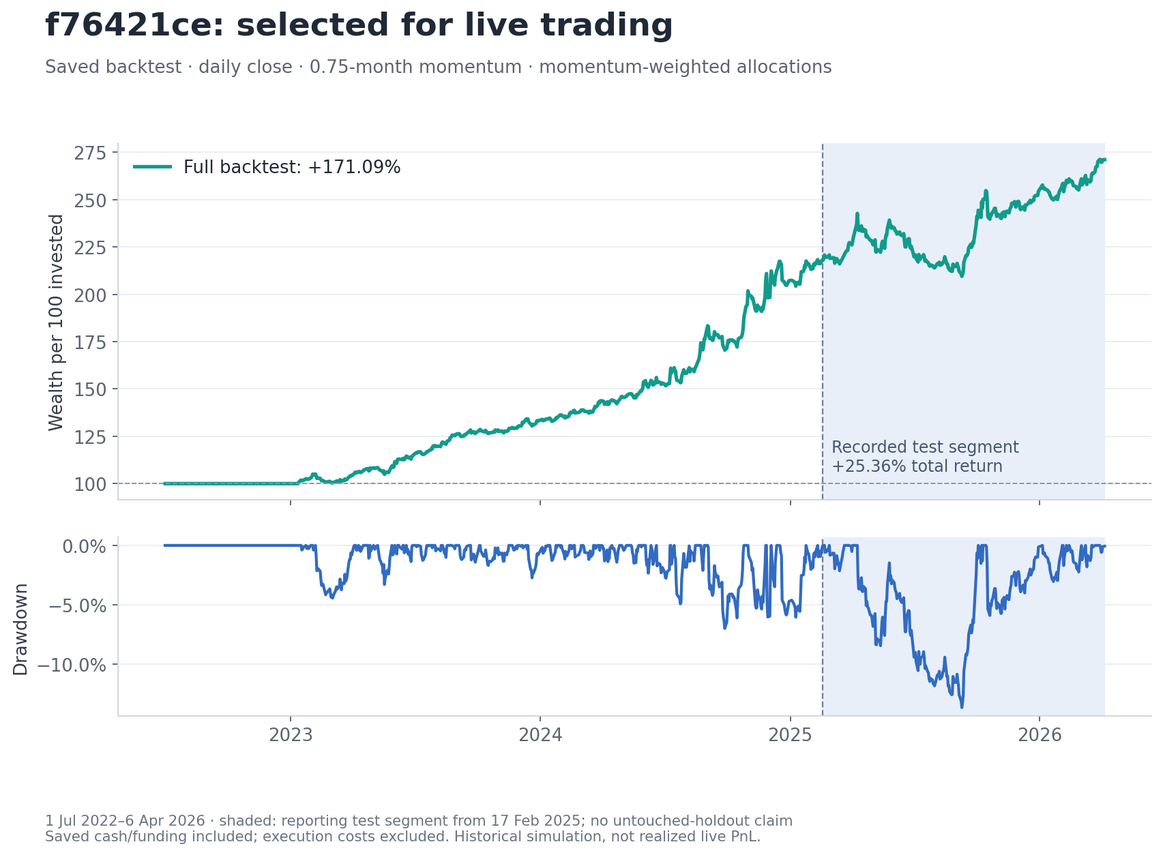
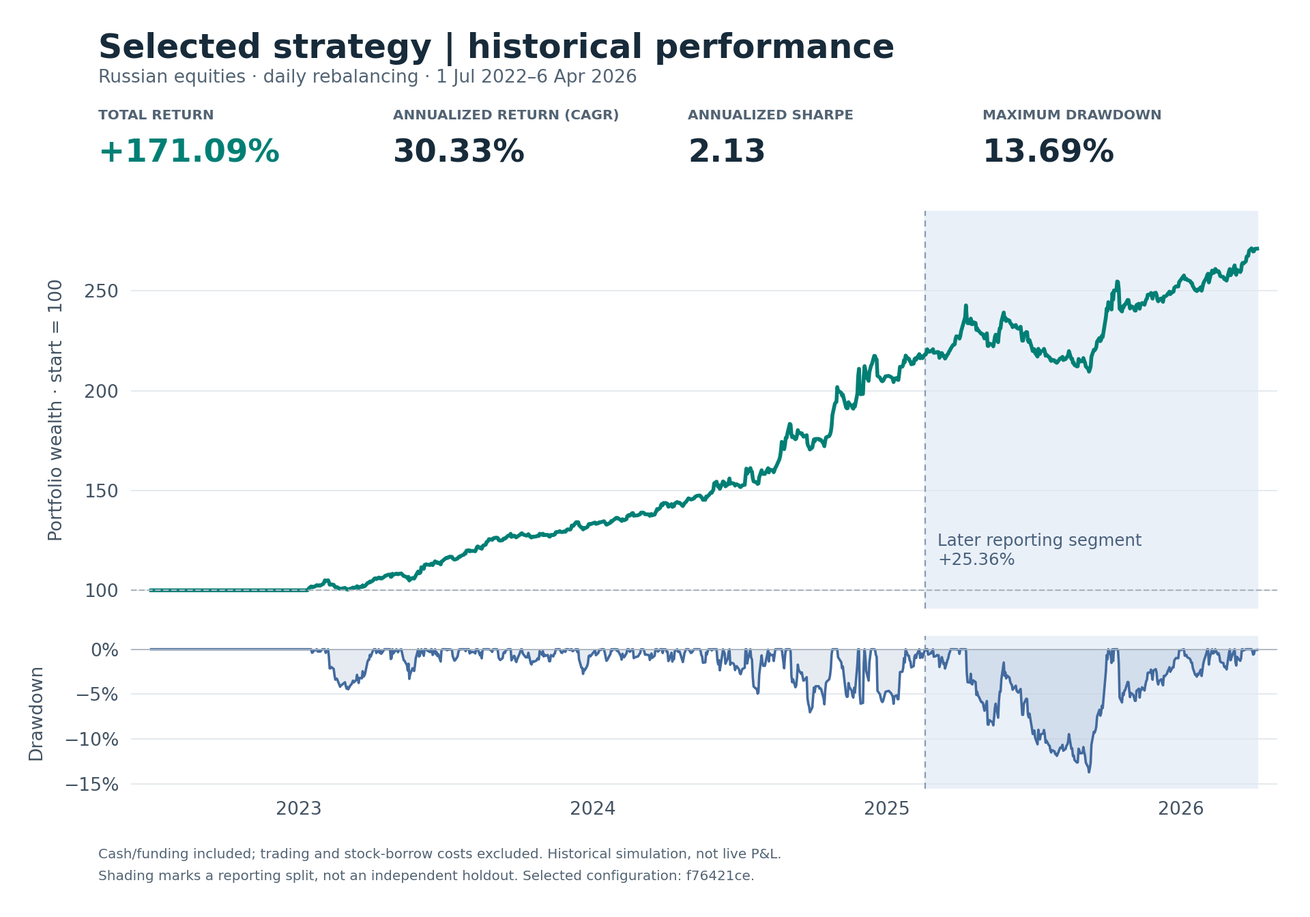
Clarify strategy research, selected results and execution scope

diff --git a/docs/research.md b/docs/research.md
@@ -1,58 +1,60 @@
 # Research process
 
-[Overview](../README.md) · [Strategy](strategy.md) · [Results](results.md)
+[Overview](../README.md) · [Strategy](strategy.md) · [Selected results](results.md)
 
-## Research question
+I built the pipeline from data ingestion and factor construction through portfolio simulation, parameter searches and evaluation. The research question is whether recent factor-portfolio performance can help allocate capital across stock-selection styles.
 
-The project studies whether the recent performance of factor portfolios can guide a changing allocation across them. Stock-level factors define candidate portfolios; momentum of those portfolios determines which candidates receive capital. This separates the signal used to select securities from the signal used to allocate among investment styles.
+## Data engineering and provenance
 
-My work covered data preparation, factor construction, portfolio simulation, parameter optimization and evaluation. I ultimately selected `f76421ce` for live use on the strength of its promising historical results. Its published performance remains backtested performance, distinct from live account returns.
+The private companion project contains collectors for MOEX ISS and optional AlgoPack market data, MOEX dividend/split feeds, CBonds dividends and financial reports, and CBR RUONIA rates. Incremental date-based updates and SQLite upserts support repeatable refreshes. Parquet snapshots provide reusable inputs for research; a review interface exposes signals, allocations and saved runs.
 
-## Data preparation
+Processing includes instrument metadata, split-adjustment bookkeeping, financial-statement currency/unit normalization and trailing-earnings calculations. These implemented connectors clarify the collection pipeline. They do not, on their own, reconstruct the exact historical input snapshot or corporate-action conventions behind every saved experiment.
 
-The research combines closing prices, dividend events, financial ratios, a market benchmark and RUONIA rates. A fixed universe of 45 identifiers is used in the research version; 41 have quotes in its local price snapshot. This is a static research universe, without reconstructed historical index membership or a liquidity screen.
+The earlier research version has a fixed universe of 45 identifiers, with quotes available for 41 in its local snapshot. There is no historical index-membership reconstruction or original volume-based eligibility filter.
 
-| Input | Coverage in the research snapshot | Treatment and limitations |
+| Input | Earlier research snapshot | Processing and open questions |
 | --- | --- | --- |
-| Closing prices | Jan 2015–Jan 2026; 86 tickers before universe filtering | Used for returns and factor calculations; this table has no intraday volume or spread data. |
-| Dividends | Jan 2015–Jan 2026; 744 events | Added to returns on the next observed trading date. Original event-date and tax conventions remain unspecified. |
-| Financial ratios | Mar 2020–Sep 2025; 648 observations | P/E and P/B are matched backward after an assumed 30-day availability lag. Actual publication timestamps are unavailable. |
-| Market benchmark | Jan 2015–Nov 2025 | Stored as MCFTR despite an IMOEXF input label; coverage ends before several strategy evaluations. |
-| RUONIA | Jan 2022–Jan 2026; 991 observations | Converted to annual decimal rates and used in the model's funding convention. |
+| Closing prices | Jan 2015–Jan 2026; 86 tickers before universe filtering | Align by security and date; the research table has no intraday volume or spread data. |
+| Dividends | Jan 2015–Jan 2026; 744 events | Add amounts to returns on the next observed trading date; original event-date and tax conventions remain unresolved. |
+| Financial ratios | Mar 2020–Sep 2025; 648 observations | Backward matching with an assumed 30-day availability lag in research; original publication timestamps are unavailable. |
+| Market benchmark | Jan 2015–Nov 2025 | Snapshot contains MCFTR despite an IMOEXF input label; it ends before several evaluation periods. |
+| RUONIA | Jan 2022–Jan 2026; 991 observations | Normalize to annual decimal rates and apply the model's funding convention. |
 
-These dates describe the research snapshot. The selected configuration used a later SQL-derived dataset through April 2026. The original collectors and exact historical input snapshot are not included here; provider attribution and corporate-action adjustments cannot be fully reconstructed from the available records.
+The selected strategy uses a later SQL-derived input snapshot through April 2026. Different snapshots must not be treated as interchangeable. The main simulator fills missing security returns with zero, while some factor calculations omit missing observations; this affects comparability and the treatment of stale prices.
 
-Observations are aligned by security and trading date. The main simulation substitutes zero for missing security returns, while some factor-return calculations omit missing observations. This difference can affect exposure and comparability. An assumed reporting lag also does not guarantee that every financial observation was available at the simulated decision time.
+## Search design
 
-## Parameter optimization
+The search has two levels. The **inner search** chooses a portfolio specification for each enabled factor category: its signal, observation window and long/short direction. The **outer search** varies how those portfolios are selected and combined.
 
-The inner search chooses one portfolio specification per enabled factor category. Each specification sets the factor, its observation window and the portfolio direction. Combinations are either evaluated exhaustively or sampled without replacement using a fixed seed and a maximum evaluation budget.
+| Study | Search space and computation | Saved evidence |
+| --- | --- | --- |
+| 24-setting grid | Weekly, biweekly or monthly resets; 1- or 3-month portfolio momentum; 5 or 10 stocks per leg; 1 or 2 selected portfolios. Up to 65,536 inner combinations per setting; base seed 42, derived per-setting seeds and all available workers. | Completed return series and chronological train/test summaries. |
+| Earlier 54-setting grids | Added a 0.5-month lookback and a third selected portfolio; combination budgets varied between runs. | Additional parameter-search records; different runs are not controlled comparisons. |
+| 50-trial Optuna study | Weekly/biweekly/monthly resets; 0.5/1/3-month momentum; 1–2 selected portfolios; 1–3 tranches; ten stocks per leg. Up to 25,000 inner combinations per trial, base seed 42, derived trial seeds and ten workers. | 50 completed trials covering 20 distinct outer settings; separate train/test summaries. |
+| Selected configuration | Six fixed candidates, daily resets, 0.75-month momentum and momentum-proportional weights. | A fixed-specification evaluation; no new combination search in this run. |
 
-The outer searches vary portfolio-momentum lookback, rebalance frequency, stock count, factor count and, in selected experiments, tranche count. Cached candidate returns, array-based calculations and parallel workers reduce repeated computation.
+The primary objective is annualized daily Sharpe. Other experiments use return–drawdown objectives or rebalance-start sensitivity penalties. The optimizer supports both Optuna grid and TPE sampling; the saved 50-trial configuration does not record its sampler choice.
 
-The completed studies include:
+To control computation, I cached candidate returns, used array-based portfolio calculations and parallelized independent evaluations with joblib. When exhaustive search was too large, the inner search sampled distinct combinations with deterministic seeds and a fixed evaluation budget. This makes searches repeatable under matching inputs, without claiming a global optimum or a measured speedup.
 
-- A 24-setting grid across weekly, biweekly and monthly rebalancing, one- and three-month momentum, five or ten stocks per leg, and one or two selected factor portfolios.
-- Earlier 54-setting grids with an additional half-month lookback and a third selected factor portfolio, using combination budgets up to 65,536.
-- A 50-trial Optuna study with 20 distinct outer parameter combinations, one to three tranches, ten stocks per leg, and a 25,000-combination budget per trial. Its base seed is 42; individual trials use different derived seeds.
-
-The main objective is annualized daily Sharpe. Other experiments use return–drawdown objectives or sensitivity penalties. Repeated trials and capped searches do not establish a globally optimal strategy.
-
-`f76421ce` is a fixed-specification evaluation, reusing six previously selected candidates. It uses daily close rebalancing, a 0.75-month momentum window and momentum-proportional weights above a historical zero cutoff. Its reporting run performs no new combination search. Later defaults use a 1.5% cutoff, which would change the strategy.
+The selected run reused six previously selected specifications. Its saved settings include seed 42, one worker and a combination cap of one. These are evaluation settings, not evidence that the selected strategy emerged from a one-trial optimization. Later changes to momentum thresholds and execution assumptions are separate strategy versions.
 
 ## Validation and interpretation
 
-Chronological train/test splits and expanding-window evaluations are present in the research. The 24-setting grid trains through 10 June 2025 and tests from 11 June 2025 to 22 January 2026. The separate Optuna example trains through 6 September 2025 and tests from 7 September 2025 to 13 March 2026. Neither saved example has a separate validation interval.
+| Evaluation | Chronology | Interpretation |
+| --- | --- | --- |
+| 24-setting grid | Train: 3 Jan 2024–10 Jun 2025; test: 11 Jun 2025–22 Jan 2026 | Training-ranked configurations were assessed in a later period. No separate validation interval. |
+| Optuna example | Train: 2 May 2024–6 Sep 2025; test: 7 Sep 2025–13 Mar 2026 | A different input snapshot, including weekend observations. No separate validation interval. |
+| Expanding-window exercise | Two successive later periods, with factor combinations reselected from preceding history | Fold averages and compounded returns across both periods answer different questions. |
+| Selected strategy | Full history divided 70/30; later reporting begins 17 Feb 2025 | Fixed specifications and full-window scoring; the split is not an independent final test. |
 
-Walk-forward experiments reselect the factor combination using expanding historical windows. Fold-average statistics and returns compounded across disjoint test periods answer different questions and must be kept separate. A completed two-fold example provides an additional assessment; incomplete later batches do not establish comprehensive robustness.
+Test statistics were visible during research and could influence configuration choices. Separate studies therefore cannot be arranged into a proven sequence of improvements. Rebalance-start sensitivity was also explored, but the saved multi-anchor batch produced no successful trials. Incomplete batches do not establish robustness.
 
-The selected configuration's 70/30 split divides its completed return series for reporting, with the later segment starting on 17 February 2025. Full-period scoring and visibility of test statistics during research prevent treating this as independent final out-of-sample evidence. Rebalance-start sensitivity was also explored, but the saved multi-anchor study produced no successful trials.
+## Execution research and reproducibility
 
-## Trading considerations
+Subsequent work added a minute-level execution simulator, liquidity and capacity diagnostics, and paper-replay accounting. Participation limits, partial fills, latency, tradable lot sizes and cost assumptions are implemented there. VWAP is used as a benchmark. These extensions have engineering tests, but no reconciled result here demonstrates improved performance under execution constraints. [Implementation and remaining limits](strategy.md#rebalancing-and-execution-research).
 
-The model aggregates overlapping positions, allows weight drift and applies simplified RUONIA cash and funding adjustments. Its close-price timing convention assumes execution without modelling an order book. The selected results exclude transaction costs, slippage, market impact and borrow fees.
-
-Staggered tranches were explored as a way to distribute rebalance timing. They are disabled in `f76421ce`, and do not themselves impose capacity constraints. Participation limits, partial fills, execution delays and liquidity-dependent costs remain separate modelling requirements before the historical returns can support a capacity or executable-return estimate.
+The public repository contains documentation and summary figures. Reproducing the historical strategy requires the private implementation, the matching version and configuration, and the original price, dividend, financial and funding snapshots. Current collectors or defaults alone are insufficient to reproduce an old run exactly. The published selected-strategy metrics were recomputed from saved daily returns; they are not a new backtest using today's data.
 
 ## Experiment diagnostics
 

diff --git a/docs/strategy.md b/docs/strategy.md
@@ -1,63 +1,77 @@
-# Strategy
+# Strategy and implementation
 
-[Overview](../README.md) · [Research process](research.md) · [Results](results.md)
+[Overview](../README.md) · [Selected results](results.md) · [Research process](research.md)
 
-I developed this strategy to test whether recent factor-portfolio performance can guide allocations within a Russian equity universe. The process has two layers: rank stocks by their characteristics, then allocate among the resulting portfolios using their trailing returns. Stock momentum is one input; momentum of factor portfolios determines the final allocation.
+## Research idea
 
-## The configuration I selected
+A **factor portfolio** is a basket of stocks ranked by a shared characteristic: for example, low valuations or high recent returns. Different baskets can perform differently as market conditions change. I investigated whether their recent performance could guide allocation between them.
 
-I chose **`f76421ce`** because its backtest results looked promising and used this configuration in live trading. It combines six fixed factor portfolios, **daily close rebalancing**, a **0.75-month** portfolio-momentum lookback and **10 stocks per selection leg**. Qualifying portfolios receive weights proportional to their positive momentum scores. Staggered rebalancing is disabled.
+The strategy has two decisions: which stocks belong in each basket, and how much capital each basket receives. **Stock momentum** is one stock-selection signal; **portfolio momentum** is the allocation signal applied to all candidate baskets.
 
-| Factor portfolio | Stock-selection signal |
+The research uses a fixed universe of Russian-market identifiers. Eligibility depends on available prices and factor observations. It does not reconstruct historical index membership, and the original selection has no volume or spread screen.
+
+## Selected configuration
+
+I selected `f76421ce` for its promising historical results and used it in live trading. Its saved configuration is:
+
+| Decision | Setting |
 | --- | --- |
-| High minus low beta | One-week beta |
-| High minus low stock momentum | Two-week momentum |
-| Short low-momentum stocks | Three-month momentum |
-| High minus low volatility | Three-month volatility |
-| High minus low dividend carry | Three-month carry |
+| Rebalance schedule | Daily close, Monday–Friday calendar |
+| Allocation signal | Trailing factor-portfolio return over 0.75 months |
+| Stock selection | Ten stocks per selection leg, subject to eligible observations |
+| Candidate set | Six fixed factor-portfolio specifications |
+| Allocation weights | Proportional to strictly positive portfolio-momentum scores |
+| Staggered tranches | Disabled |
+
+Several candidates can receive capital simultaneously. The recorded factor-count setting does not cap this momentum-weighted allocation mode. The original positive-return cutoff was zero; a later 1.5% default describes a different strategy version.
+
+| Selected basket | Signal and interpretation |
+| --- | --- |
+| High minus low beta | One-week sensitivity to the supplied market benchmark |
+| High minus low stock momentum | Two-week compounded stock returns |
+| Short low-momentum stocks | Three-month stock returns |
+| High minus low volatility | Three-month return dispersion |
+| High minus low dividend carry | Three-month dividends relative to price |
 | Low minus high P/E | Positive price-to-earnings ratios |
 
-These six portfolios form the candidate set. Their allocations vary through time, and several can receive capital together. The original configuration uses a **strictly positive** momentum threshold. A later 1.5% threshold changes the strategy and should not be applied to the original results.
+Long–short baskets initially assign total weight +1 to the long leg and −1 to the short leg. Their gross exposure is two before opposing positions cancel. The combined portfolio can have changing net and gross exposures; its allocation weights summing to one does not make it market-neutral.
 
-## From data to positions
+## Portfolio engineering
 
-```mermaid
-flowchart TD
-    A[Prices, dividends and financial data] --> B[Align dates and calculate stock factors]
-    C[Benchmark] --> B
-    B --> D[Construct factor portfolios]
-    D --> E[Calculate trailing portfolio returns]
-    E --> F[Allocate by portfolio momentum]
-    F --> G[Combine security positions]
-    G --> H[Simulate returns, funding and cash]
-    R[RUONIA rates] --> H
-    H --> I[Compare parameters and evaluate later periods]
-```
+| Problem | Implementation decision | Consequence |
+| --- | --- | --- |
+| The same stock appears in multiple baskets | Aggregate signed security weights and net opposing positions | Exposure reflects the combined position, rather than the sum of separate basket exposures. |
+| Holdings change value between resets | Allow security weights to drift | The assembled strategy differs from the fixed-weight return proxies used to rank candidate baskets. |
+| Missing or stale prices | Substitute zero for missing security returns in the main simulation | Keeps the return matrix aligned, but can understate uncertainty; some factor calculations instead omit missing observations. |
+| Financial information has a release delay | Apply an assumed 30-calendar-day lag in the research factor construction | A lag is a proxy for availability; actual publication timestamps remain unverified. |
+| Signals and execution occur at different times | Apply decisions dated T to the next observed return interval | Close-price fills remain an assumption; the simulation does not demonstrate their availability. |
+| Cash and long/short positions need consistent financing | Account for RUONIA funding and cash accrual separately | Simplified financing can differ from broker margin and stock-borrow terms. |
 
-The research universe is a fixed list of Russian-market identifiers. Eligibility depends on available prices and factor observations. It is not a historical reconstruction of index membership, and the original research selection does not screen stocks by trading volume or spreads.
+RUONIA, the overnight ruble rate, is converted to a daily rate by dividing its annual decimal value by 252. The model charges funding on one unit of principal and accrues cash on one minus net exposure. The resulting net financing adjustment is **minus net exposure × daily RUONIA**. Flat and net-zero positions receive no net accrual under this convention.
 
-Beta measures sensitivity to the supplied benchmark. Momentum compounds price and dividend returns; volatility measures their dispersion. Carry compares trailing dividends with price. Value uses available positive P/E or P/B ratios, with an assumed 30-calendar-day financial-information lag. That lag does not verify the date on which each report became public.
+Dividends enter stock returns on the next observed trading date. Whole-month portfolio lookbacks use calendar offsets; fractional months use 30 days per month. These conventions are part of the historical model, rather than assumptions about actual settlement dates.
 
-Each factor portfolio ranks eligible stocks and forms a long, short or long–short basket. A long–short basket initially assigns total weight +1 to the long leg and −1 to the short leg. Its nominal gross exposure is therefore two before overlapping positions cancel. Combining factor portfolios can produce different net and gross exposures even when portfolio-allocation weights sum to one.
+## Rebalancing and execution research
 
-Portfolio momentum is measured before the allocation takes effect. Whole-month lookbacks use calendar offsets; fractional months use 30 days per month. The broader research also compares equal-weight allocations among the highest-ranked qualifying portfolios with the momentum-weighted rule used in `f76421ce`.
+**Staggering** spreads portfolio resets across multiple schedules. It was explored as a timing choice and is disabled in `f76421ce`. It does not, by itself, constrain trading to available volume.
 
-## Portfolio accounting
+A later research extension addresses execution explicitly:
 
-The strategy combines security weights across factor portfolios, nets opposing positions and allows weights to drift between target resets. Dividend amounts enter stock returns on the next observed trading date. Missing security returns are treated as zero in the main return engine, which can understate uncertainty when prices are stale or unavailable.
+| Capability | Selected historical backtest | Later minute-level simulator |
+| --- | --- | --- |
+| Fill prices and timing | Close-based return convention | Minute-bar price proxies, with latency |
+| Liquidity constraints | No volume-constrained fills | Participation caps based on preceding completed volume; residual quantities carried as partial fills |
+| Tradable quantities | Continuous portfolio weights | Whole lots and adverse tick rounding |
+| Trading costs | Excluded | Configurable fees and slippage assumptions |
+| Funding and borrowing | Simplified RUONIA cash/funding; no stock-borrow fees | Cash/share accounting with funding and borrow-cost assumptions |
+| Portfolio limits | Strategy weights and netting | Gross/net exposure, individual-stock and turnover limits |
 
-The funding convention uses annual RUONIA divided by 252. It combines a charge on one unit of borrowed principal with cash accrual on one minus net exposure. The resulting net financing adjustment is **minus net exposure times the daily RUONIA rate**. Flat and net-zero positions therefore receive no net RUONIA accrual under this convention. These assumptions do not reproduce every broker's cash, margin or stock-borrow terms.
+The later simulator is a **research prototype**. Existing tests cover timing, partial fills, unavailable shorts, lot/tick constraints, costs, funding and restart accounting; the 16-test suite passes. These checks establish accounting behavior, not improved performance or deployed execution.
 
-Factor-portfolio ranking histories use fixed-weight return proxies, while the assembled strategy drifts security weights between resets. The distinction matters when comparing diagnostics or attributing returns. Close-based rebalancing is a return-timing assumption; it does not demonstrate that orders could fill at the closing price.
+Historical order-book depth and a calibrated market-impact model are not available in this evidence. VWAP appears as an execution benchmark; a deployed VWAP execution algorithm has not been established. The later simulator has not been used to restate the selected strategy's headline returns.
 
-## Rebalancing and liquidity
+## Interpretation and next steps
 
-I explored staggered tranches and shifted rebalance starts to assess sensitivity to timing. Tranches spread portfolio refreshes across schedules, although calendar grouping can make some dates coincide. They were not used in the selected `f76421ce` configuration.
+The main research limitations are the fixed universe, assumed information availability and missing-return handling. Part of the earlier factor implementation also applies a rolling-signal shift across stock boundaries at the first observation of a new stock. Historical strategy versions therefore need to be distinguished when reproducing or extending the work.
 
-The original results do **not** model volume participation limits, partial fills, liquidity-dependent execution delays, slippage, market impact, commissions or stock-borrow fees. A staggered schedule alone does not establish liquidity-aware execution. Capacity and executable returns require a separate execution model and trading evidence; later execution research does not retroactively change these backtests.
-
-## Research limits
-
-The main uncertainties are the fixed universe, assumed financial-release dates, missing-return handling and differences between historical strategy versions. A rolling-signal shift also crosses stock boundaries at the first observation of a new stock in part of the research implementation. Full-window scoring and visibility of test results during research further limit claims of independent out-of-sample performance.
-
-The [research process](research.md) explains the searches and validation exercises. The [results](results.md) distinguish the configuration I used from other research configurations and from realized trading P&L.
+The next evaluation step is to apply the execution model to a frozen configuration and reserved period, with measured spread, borrow and liquidity inputs. That would support a more informative comparison of theoretical and executable returns. [Searches and validation evidence](research.md).

diff --git a/README.md b/README.md
@@ -1,47 +1,51 @@
 # Momentum of Factor Portfolios
 
-A mid-frequency equity strategy that uses the recent performance of factor portfolios to decide where to allocate capital.
+**Mid-frequency long–short equity research · Russian equities**
 
-I built the research pipeline from data preparation and factor construction through portfolio simulation, parameter optimization and historical evaluation. The central question is whether momentum across factor portfolios can help adapt a long–short allocation to changing market conditions.
+I built a research and backtesting pipeline to study whether recent performance can guide allocation between investment styles. The strategy forms stock baskets from characteristics such as value, momentum and volatility, then allocates to the baskets with positive trailing returns.
 
-[Research process](docs/research.md) · [Strategy](docs/strategy.md) · [Results](docs/results.md)
+[Strategy](docs/strategy.md) · [Selected results](docs/results.md) · [Research and experiments](docs/research.md)
 
-## Selected configuration: `f76421ce`
+## What I built
 
-**I selected `f76421ce` because its backtest results looked promising and used this configuration in live trading.** The results below are its historical simulation, rather than realized live P&L.
+- **Data pipeline:** incremental market-data and fundamental-data updates in SQLite, with aligned prices, dividends, financial ratios and funding rates exported to reusable Parquet research snapshots.
+- **Portfolio engine:** factor-based stock selection, momentum-based allocation, overlapping-position netting, drifting holdings, and explicit cash and funding accounting.
+- **Optimization and evaluation:** seeded factor-combination searches, parameter grids and Optuna studies, with cached calculations and parallel workers; chronological splits and expanding-window experiments to examine sensitivity.
+- **Execution research:** a separate, later minute-level simulator with volume participation limits, partial fills, lot/tick rounding, latency and trading-cost assumptions. Its engineering tests cover fill timing and portfolio accounting; these features are separate from the headline backtest.
 
-The configuration combines six fixed factor-portfolio specifications, with daily close rebalancing, a **0.75-month portfolio-momentum lookback**, **10 stocks per selection leg**, and allocations proportional to qualifying positive momentum scores. Multiple portfolios can receive capital. Staggered rebalancing is disabled in this configuration.
+**Tools:** Python · pandas · NumPy · SQLite · Parquet · Optuna · joblib
 
-| Historical simulation | Total return | CAGR | Annualized Sharpe | Maximum drawdown |
+## Selected strategy and backtest
+
+**I selected `f76421ce` because its historical results looked promising and used this configuration in live trading.** The figures below are its saved historical simulation; realized live P&L is not presented here.
+
+The selected strategy allocates across six candidate factor portfolios, rebalances daily at the close, uses a 0.75-month portfolio-momentum lookback, and selects ten stocks per portfolio leg. Several candidates can receive capital together.
+
+| Backtest period | Total return | CAGR | Annualized Sharpe | Maximum drawdown |
 | --- | ---: | ---: | ---: | ---: |
 | 1 Jul 2022–6 Apr 2026 | **+171.09%** | **30.33%** | **2.13** | **13.69%** |
-| Later reporting segment: 17 Feb 2025–6 Apr 2026 | +25.36% | 22.12% | 1.51 | 13.69% |
 
-![Historical wealth and drawdown of the selected f76421ce configuration](docs/assets/selected_f76421ce.png)
+![Selected strategy: historical portfolio wealth and drawdown](docs/assets/selected_f76421ce.png)
 
-Returns include the model's cash and RUONIA funding adjustments and exclude execution costs, slippage, market impact and stock-borrow fees. Sharpe is annualized using 252 observations per year, without an additional risk-free subtraction. The full period includes an initial zero-return interval through 11 January 2023.
+Cash and RUONIA funding adjustments are included; trading and stock-borrow costs are excluded. The configuration was assessed over the full history, so its later reporting segment is not an independent final test. The initial zero-return interval through 11 January 2023 remains in the calculations. [Period breakdown, definitions and assumptions](docs/results.md).
 
-The later segment is a chronological reporting split. The selected run uses fixed specifications and full-period scoring; I do not treat that segment as an untouched final holdout. [Results and evaluation context](docs/results.md).
-
-## Strategy pipeline
+## How it works
 
 ```mermaid
 flowchart LR
-    A[Prices, dividends, reports and benchmark] --> B[Stock-level factors]
-    B --> C[Factor portfolios]
-    C --> D[Portfolio momentum]
-    D --> E[Combined long-short positions]
-    E --> F[Returns and risk]
-    R[RUONIA funding rates] --> F
-    F --> G[Parameter searches and validation]
+    A[Market and fundamental data] --> B[Stock signals]
+    B --> C[Long and short baskets]
+    C --> D[Portfolio momentum allocation]
+    D --> E[Simulation and evaluation]
+    R[Funding rates] --> E
 ```
 
-The stock-selection layer covers beta, momentum, negative momentum, volatility, dividend carry and value. The allocation layer measures the trailing return of each candidate portfolio, then combines qualifying portfolios into security-level positions. Overlapping positions are aggregated and weights drift between resets.
+A stock's momentum helps form a basket. The basket's momentum determines its allocation. This separation is the central idea of the project.
 
-## Research scope
+## Explore the project
 
-I explored factor combinations, momentum lookbacks, stock and factor counts, rebalancing frequencies and staggered tranches through grid searches and Optuna experiments. Chronological splits and expanding-window tests provided additional views of sensitivity and risk. Separate experiments use different data periods and assumptions, so their results are not a controlled progression of improvements.
+- [Strategy and implementation decisions](docs/strategy.md): factor definitions, portfolio accounting and execution research.
+- [Selected results](docs/results.md): performance of the configuration I used, including drawdown and interpretation.
+- [Research process](docs/research.md): data preparation, search design and expandable results from other experiments.
 
-Practical questions include financial-information timing, missing observations, overlapping holdings, cash and funding conventions, and execution at the close. Staggering spreads rebalance dates across sub-portfolios; the selected backtest does not model volume participation, partial fills or liquidity-dependent execution costs.
-
-This repository contains the project overview, research notes and summary figures. Source code, datasets and detailed experiment files are retained internally.
+This is a presentation of an internal project. Source code, datasets and detailed trading records remain private.

diff --git a/docs/results.md b/docs/results.md
@@ -1,25 +1,41 @@
-# Results: selected configuration
+# Selected strategy: results
 
 [Overview](../README.md) · [Strategy](strategy.md) · [Research process](research.md)
 
-I selected **`f76421ce`** because its backtest results looked promising and used that configuration in live trading. This page presents the historical simulation of that configuration; the figures are **not realized live P&L**.
+I selected **`f76421ce`** because its backtest results looked promising and used this configuration in live trading. This page reports its **historical simulation after modeled cash and funding, before trading costs**. Realized live account returns are not presented.
 
-## Selected configuration: `f76421ce`
+## Performance
 
-| Backtest segment | Dates | Total return | CAGR | Annualized Sharpe | Maximum drawdown |
+| Reporting segment | Dates | Total return | CAGR | Annualized Sharpe | Maximum drawdown |
 | --- | --- | ---: | ---: | ---: | ---: |
-| Full | 1 Jul 2022–6 Apr 2026 | **+171.09%** | 30.33% | 2.13 | 13.69% |
-| Training segment | 1 Jul 2022–14 Feb 2025 | +116.25% | 34.15% | 2.44 | 7.01% |
-| Later reporting segment | 17 Feb 2025–6 Apr 2026 | **+25.36%** | 22.12% | 1.51 | 13.69% |
+| Full history | 1 Jul 2022–6 Apr 2026 | **+171.09%** | **30.33%** | **2.13** | **13.69%** |
+| Earlier segment | 1 Jul 2022–14 Feb 2025 | +116.25% | 34.15% | 2.44 | 7.01% |
+| Later segment | 17 Feb 2025–6 Apr 2026 | **+25.36%** | 22.12% | 1.51 | 13.69% |
 
-![Cumulative returns and drawdown for f76421ce](assets/selected_f76421ce.png)
+![Selected strategy: historical portfolio wealth and drawdown](assets/selected_f76421ce.png)
 
-This configuration rebalances daily at the close, uses 0.75 months of portfolio momentum and selects 10 stocks per factor-portfolio leg. It weights qualifying portfolios by positive momentum and uses no staggered tranches.
+The chart starts portfolio wealth at 100. The blue shaded interval marks the later reporting segment. Drawdown measures the decline from the preceding portfolio peak; a profitable strategy can still experience substantial drawdowns.
 
-The simulation includes cash and RUONIA funding adjustments. It excludes commissions, bid–ask spreads, slippage, market impact, stock-borrow fees and volume-constrained fills. The full series contains 954 observations, including the initial zero-return period through 11 January 2023. The original evaluation reused fixed factor specifications and scored the full window. Its 70/30 split is a reporting division, so the later segment should not be interpreted as an untouched holdout.
+The selected setup uses daily close rebalancing, a 0.75-month portfolio-momentum lookback and ten stocks per selection leg. Capital is allocated proportionally across qualifying positive-momentum candidates, with no staggered tranches. [Configuration and accounting](strategy.md#selected-configuration).
 
-## Reading the results
+## What the figures include
 
-Returns are compounded. CAGR uses elapsed calendar time. Sharpe is the mean daily return divided by its sample standard deviation, annualized with `sqrt(252)`, without an additional risk-free subtraction after financing. Maximum drawdown is reported as a positive loss magnitude in the table; the chart shows declines from prior portfolio peaks.
+- **Cash and funding:** saved RUONIA funding charges and cash accrual are included.
+- **Execution:** commissions, spreads, slippage, market impact, stock-borrow fees and volume-constrained fills are excluded. The later execution simulator is a separate research extension.
+- **Calendar:** 954 Monday–Friday observations, including the initial zero-return interval through 11 January 2023. The first nonzero return is on 12 January 2023.
+- **Selection:** six fixed specifications were reused and assessed over the full history. The 70/30 division is a reporting split; neither segment establishes an independent final holdout. Test results were visible during research and could influence configuration selection.
 
-Other configurations produced mixed results, including negative later-period returns. The separate [grid, Optuna and walk-forward experiments](research.md#experiment-diagnostics) document that sensitivity; they do not establish the robustness of `f76421ce`. Full-period scoring and visibility of test results during research limit any out-of-sample interpretation of the selected configuration.
+## How the metrics are calculated
+
+| Metric | Definition |
+| --- | --- |
+| Total return | Compound all daily portfolio returns within the stated segment. |
+| CAGR | Annualize the compounded return using elapsed calendar time and a 365.25-day year. |
+| Annualized Sharpe | Daily mean return divided by sample standard deviation, multiplied by √252. No additional risk-free series is subtracted after financing. |
+| Maximum drawdown | Largest decline from a preceding wealth peak, shown as a positive loss magnitude in the table. |
+
+Figures were reconciled against the saved daily return series and run summaries. Segment returns compound; they should not be added together.
+
+No benchmark outperformance is claimed. The earlier benchmark snapshot contains MCFTR under an IMOEXF input label and ends before the full evaluation period; a like-for-like full-period comparison is not established here.
+
+Other configurations produced mixed results, including negative later-period returns. Their [grid, Optuna and walk-forward diagnostics](research.md#experiment-diagnostics) remain available as research context. They do not establish robustness of the selected configuration.
